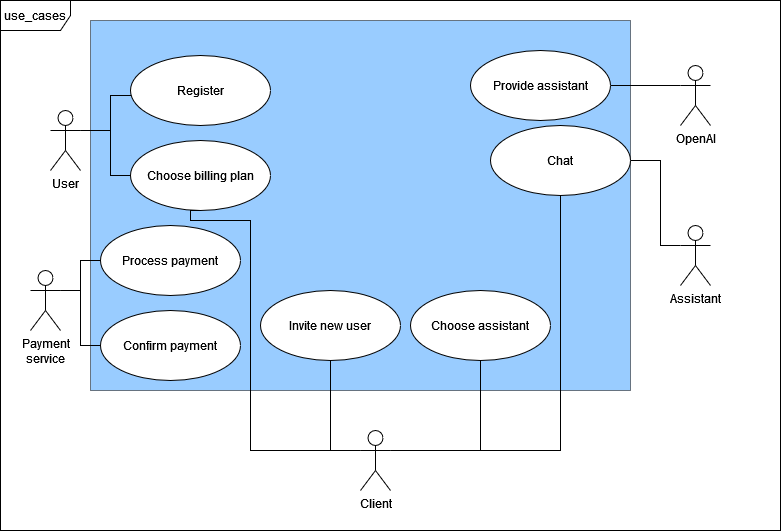
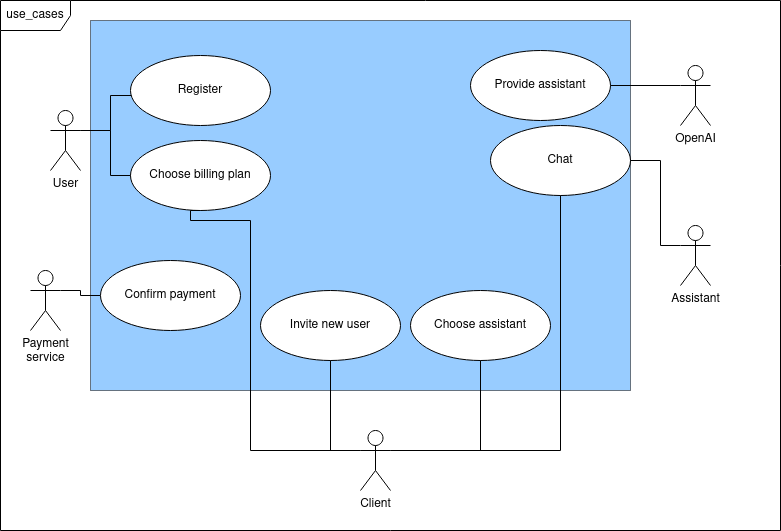
Add insertion to db scripts; Fix select queries; Fix diagrams related to payment system

diff --git a/docs/functional_requirements.md b/docs/functional_requirements.md
@@ -8,6 +8,10 @@
 
 ![choose_billing_plan](./figs/choose_billing_plan.png)
 
+## Store a billing plan
+
+![store_billing_plan](./figs/store_billing_plan.png)
+
 ## Write to an assistant 
 
 ![write_to_assistant](./figs/write_to_assistant.png)

diff --git a/docs/business_requirements.md b/docs/business_requirements.md
@@ -20,7 +20,6 @@ We provide a user-friendly UI to an AI-aided assistance
 * OpenAI
   * Provide an assistant
 * Payment service
-  * Process payment
   * Confirm payment
 * Assistant
   * Write a response based on a request
